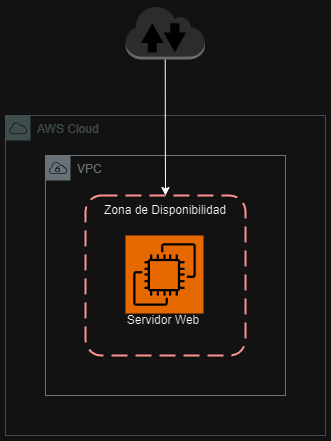
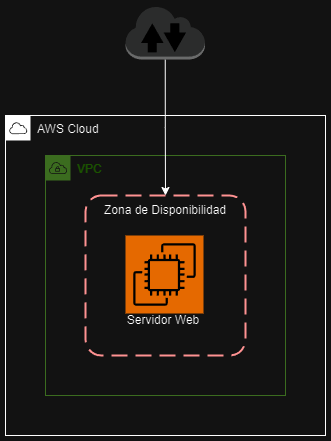
Nuevo proyecto aws

Changed region(s): [[0.0, 0.2358, 0.3021, 0.3243], [0.1208, 0.3537, 0.3021, 0.4127]]

diff --git a/AWS/1 - Crear VPC y Servidor Web/Documentación.md b/AWS/1 - Crear VPC y Servidor Web/Documentación.md
@@ -7,7 +7,7 @@ En **AWS** es necesaria cierta infraestructura para poder tener una *página web
 5. Grupos de Seguridad: Firewall que protege a las instancias.
 6. Instancia Elastic Compute Cloud (EC2): En donde se alojara el servidor web.
 
-![00EsquemaVPCServidorWeb]()
+![00EsquemaVPCServidorWeb](https://github.com/Coalacanth/Portafolio/blob/main/Recursos/1%20-%20Im%C3%A1genes/00-Diagrama-VPCServidorWeb.png)
 
 # Crear una VPC
 La creación de VPC requiere de comprender como se realiza la [segmentación de red], que puede ser un tanto complejo de entender.
